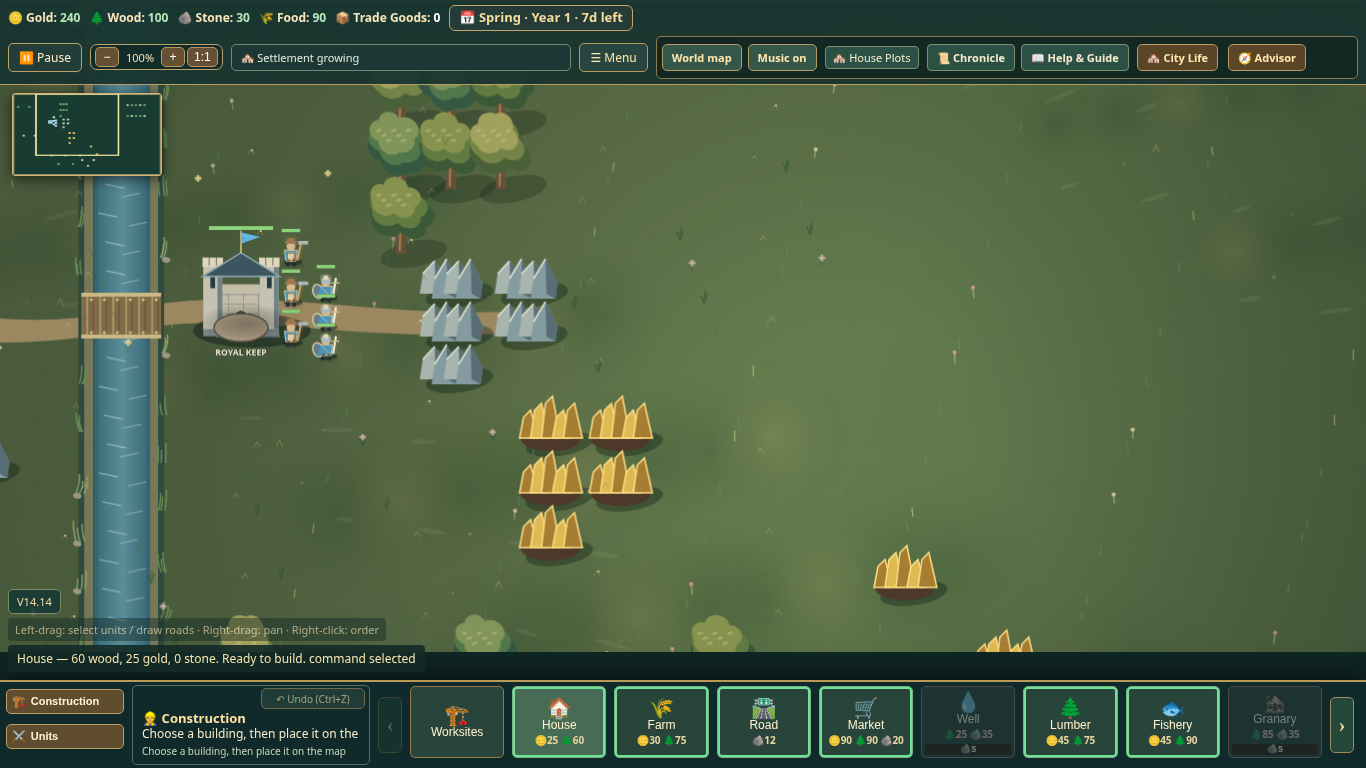
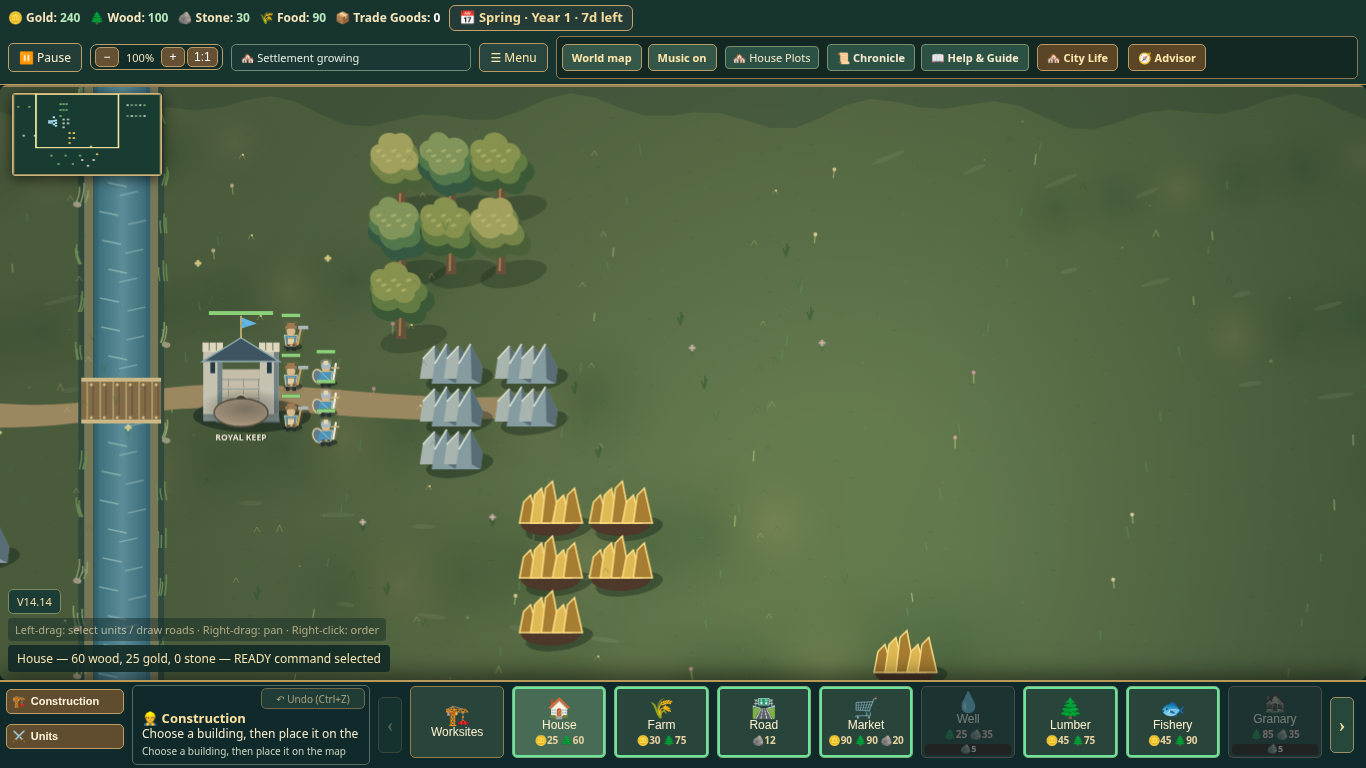
fix: reserve map and panel clearance beneath responsive HUD

diff --git a/index.html b/index.html
@@ -8789,16 +8789,19 @@ prev.addEventListener('click',()=>move(-1));next.addEventListener('click',()=>mo
 <style id="scResponsiveHudStyle">
 #scResponsiveHud{position:fixed;inset:0 0 auto;z-index:31012;display:flex;flex-wrap:wrap;align-items:center;gap:5px 8px;padding:5px 8px;background:#18352ff2;border-bottom:1px solid #b99b62;pointer-events:none}
 #scResponsiveHud>*{pointer-events:auto}
+main{position:fixed!important;top:var(--sc-hud-height,115px)!important;left:0;right:0;bottom:88px;height:auto!important;max-height:none!important}
+main>div:first-child{height:100%!important;max-height:100%!important;min-height:0!important}
 #scResponsiveHud #resourceBar{position:static!important;flex:1 1 100%;height:auto!important;min-height:0!important;padding:0!important;border:0;white-space:normal!important;background:transparent}
 #scResponsiveHud #sc1380Zoom,#scResponsiveHud #sc154Pause,#scResponsiveHud #sc158CityStatus,#scResponsiveHud #sc146MenuButton,#scResponsiveHud #sc149Status{position:static!important;inset:auto!important;transform:none!important;margin:0!important;max-height:none!important;max-width:100%!important}
 #scResponsiveHud #sc158CityStatus{flex:1 1 auto;white-space:normal;overflow-wrap:anywhere}
-#scResponsiveHud #sc149Status{flex:1 1 500px;min-width:0;overflow-x:auto!important}
+#scResponsiveHud #sc149Status{flex:1 1 700px;min-width:0;overflow-x:auto!important}
 #scFloatingMinimap{top:calc(var(--sc-hud-height, 115px) + 8px)!important}
 #sc146Menu{top:calc(var(--sc-hud-height, 115px) + 8px)!important;max-height:calc(100dvh - var(--sc-hud-height, 115px) - 112px)!important}
 #sc159Pulse,#sc1310AdvisorPanel,#advisorTop.sc155Open,#scConstructionPanel,#sc189HelpPanel,#sc190ChroniclePanel{top:calc(var(--sc-hud-height, 115px) + 8px)!important;max-height:calc(100dvh - var(--sc-hud-height, 115px) - 112px)!important}
 #scHudNotices{position:fixed;left:8px;right:8px;bottom:96px;z-index:14001;display:flex;flex-direction:column;align-items:flex-start;gap:4px;pointer-events:auto;max-height:calc(100dvh - var(--sc-hud-height, 115px) - 112px);overflow:auto}
 #scHudNotices>*{position:static!important;inset:auto!important;transform:none!important;margin:0!important;max-width:100%!important;white-space:normal!important;overflow-wrap:anywhere;flex:none}
 #scHudNotices>*:empty,#scHudNotices>[style*="opacity: 0"]{display:none!important}
+@media(max-width:760px){#sc159Pulse,#sc1310AdvisorPanel,#advisorTop.sc155Open{top:calc(var(--sc-hud-height,115px) + 99px)!important;max-height:calc(100dvh - var(--sc-hud-height,115px) - 203px)!important}}
 @media(max-width:600px){#scResponsiveHud #sc158CityStatus{flex-basis:100%}#scResponsiveHud #sc149Status{flex-basis:calc(100% - 80px)}#sc154Hint{display:none!important}}
 </style>
 <script id="scResponsiveHudScript">
@@ -8808,7 +8811,8 @@ prev.addEventListener('click',()=>move(-1));next.addEventListener('click',()=>mo
  for(const id of ['resourceBar','sc154Pause','sc1380Zoom','sc158CityStatus','sc146MenuButton','sc149Status']){const el=document.getElementById(id);if(el)hud.append(el);}
  const notices=document.createElement('div');notices.id='scHudNotices';document.body.append(notices);
  for(const id of ['sc179Version','sc154Hint','sc143Tip','sc150SelectedIndicator','sc151OrderToast','sc196CostStrip','sc1345TheaterCard','sc1350Budget','sc1354Alerts','sc1399Planner']){const el=document.getElementById(id);if(el)notices.append(el);}
- new ResizeObserver(()=>document.documentElement.style.setProperty('--sc-hud-height',hud.getBoundingClientRect().height+'px')).observe(hud);
+ function layout(){document.documentElement.style.setProperty('--sc-hud-height',hud.getBoundingClientRect().height+'px');const viewport=document.getElementById('field')?.parentElement;if(viewport){viewport.style.setProperty('height','100%','important');viewport.style.setProperty('max-height','100%','important');}}
+ new ResizeObserver(layout).observe(hud);window.addEventListener('resize',layout);document.addEventListener('fullscreenchange',layout);requestAnimationFrame(()=>requestAnimationFrame(layout));layout();
 }if(document.readyState==='loading')document.addEventListener('DOMContentLoaded',setup,{once:true});else setup();
 })();
 </script>

diff --git a/docs/validation/v021-hud-repair.md b/docs/validation/v021-hud-repair.md
@@ -1,22 +1,26 @@
 # v0.21 responsive HUD repair
 
-The screenshot-sized 390×844 baseline at 9b5ed5b reproduced Food, Trade Goods and calendar overlap with Pause. The bar wrapped but retained a fixed height, while other controls used independent viewport offsets.
+The 390×844 baseline at `9b5ed5b5` reproduces Food, Trade Goods and calendar overlap with Pause. The resource bar wraps while retaining a fixed height; other controls use independent viewport offsets.
 
-The HUD now uses a shared wrapping flow. Its measured height supplies minimap and panel clearance. Notifications stack above the command bar, dismissed messages leave the flow, and overflowing notices can scroll.
+The HUD now shares a wrapping flow. Its measured height reserves the playable map and supplies minimap/menu/panel clearance. Narrow City Life and Advisor panels also clear the minimap. Notifications stack above the command bar, dismissed messages leave the flow, and overflowing notices can scroll. Resize, fullscreen and deferred startup synchronize the map height.
 
-## Evidence
+## Verification history
 
-- Six viewport cases: 320×740, 390×844, 430×932, 844×390, 1366×768 and 1920×1080.
-- The six HUD tests passed locally, including native Pause, Menu, Help/Chronicle opening and close-button hit targets, and actual House selection feedback.
-- Earlier combined HUD/City Life/v0.21 layout batch: 16/16 passed. Counts overlap.
-- Read-only review found no remaining critical or important issue after panel clearance and notice overflow corrections.
-- 128 inline scripts parse; git diff --check passes.
-- Local full regression and packaged smoke were started; the full run has page-load timeouts and must not be described as clean. Final results and required CI status belong to PR #36's latest checks.
-- Local runtime: Node24.19.0, Playwright1.57.0, system Chromium154.0.8037.57. The environment blocked the pinned browser download; GitHub CI uses the pinned browser independently.
+- Fail-first 390×844 test reproduced resource/date/Pause overlap on the original v0.21 bytes. A later fail-first assertion reproduced the map starting underneath the taller HUD.
+- Six HUD cases cover 320×740, 390×844, 430×932, 844×390, 1366×768 and 1920×1080. They check resource/date/control rectangles, map clearance, native Pause, Menu, Help/Chronicle close-button hit targets and House selection feedback.
+- An earlier combined HUD/City Life/v0.21 layout batch passed 16/16. The six map-clearance HUD checks passed after correction. Counts overlap; required CI reruns all six on the final source.
+- Initial CI [43032043433](https://github.com/GKoromilas01/Shattered-Crowns/actions/runs/43032043433) passed 400/408 and exposed eight real layout regressions: narrow panels overlapped the relocated minimap, the HUD intercepted road placement near the map top, and the map lost wheel-scroll overflow. Those findings caused the measured map/panel clearance corrections; that run is not green evidence.
+- Preliminary local full and packaged runs also failed; concurrent browser runs caused additional startup/gathering timeouts. They are not passing evidence for the final source. Focused compatibility was rerun sequentially, preserving existing time limits and assertions.
+- The final sequential compatibility batch passed **11/11**, with zero failures/skips/cancellations. It covers narrow City Life at 390/601/640, services at 390/768, 3×3/6×6/9×9 roads with exact costs and undo, and control hit targets at 1440/1024/768.
+- Read-only review found no remaining critical or important issue after panel, map, fullscreen and startup corrections. All 128 inline scripts parse; `git diff --check` passes.
 
-Corrected screenshots show actual running gameplay and native House selection, with no grants, injected buildings, replacement art or image compositing:
+Local runtime: Node24.19.0, Playwright1.57.0, explicit system Chromium154.0.8037.57. Network policy blocked the pinned browser download. GitHub required CI independently uses the pinned browser, runs the complete regression/pipeline suite, packages the exact committed source, verifies it, runs packaged and deployed smoke, and gates `required-ci`. Consult PR #36's latest checks for the final result; earlier runs do not authorize merge.
+
+## Corrected screenshots
+
+Actual running gameplay and native House selection, without grants, injected buildings, replacement art or compositing:
 
 ![390×844 HUD and construction feedback](../screenshots/v021-hud-fixed-390.png)
 ![1366×768 HUD and construction feedback](../screenshots/v021-hud-fixed-1366.png)
 
-Game source commit: cc3551fd5c5a63052cc414dbff94dad5eac8469d. This evidence follow-up changes only documentation and screenshots. Merge remains gated on the latest required-ci result and owner decision.
+No merge or deployment is performed by this repair.
